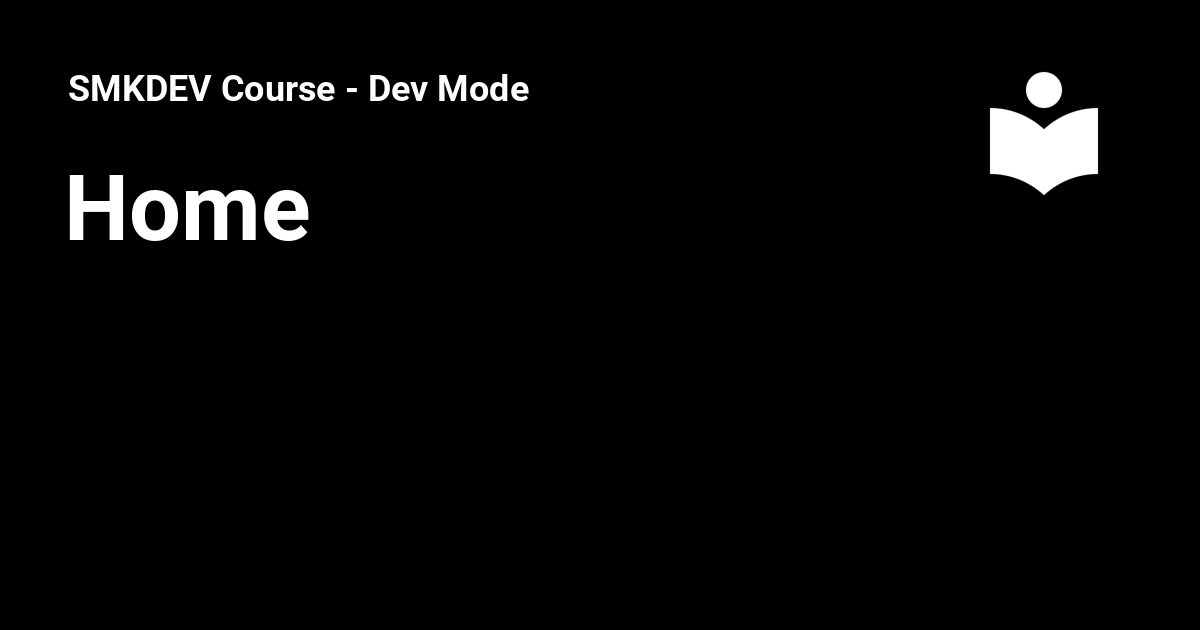
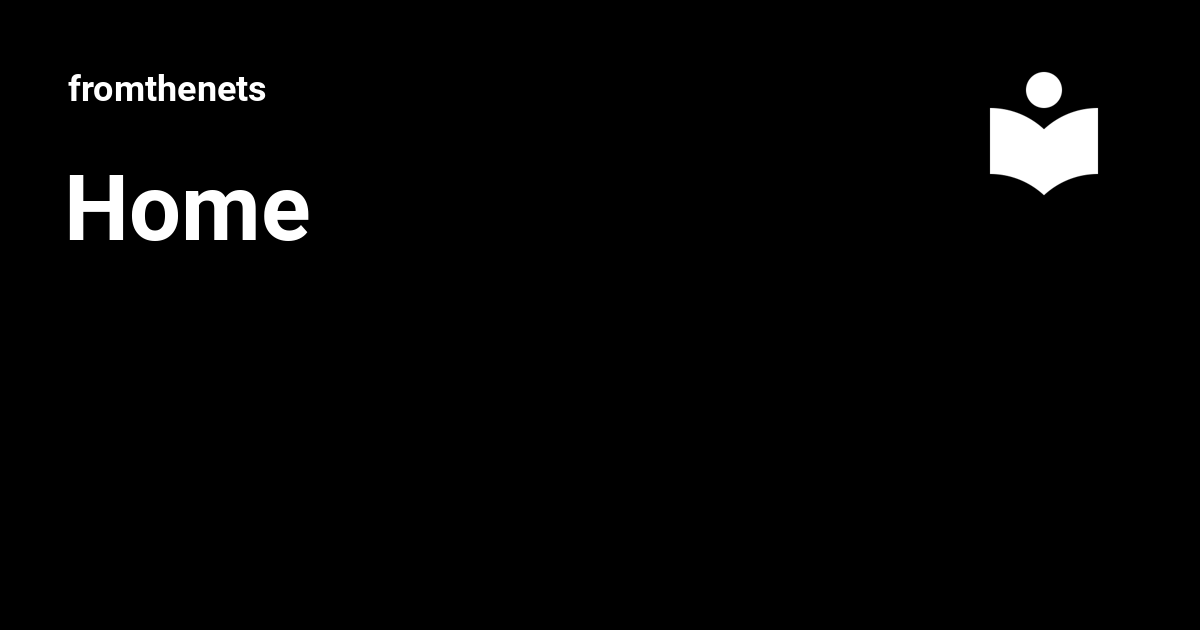
deploy: 1eaac1ed55e2a0e807264677e943bde41f2f64f3

Changed region(s): [[0.0617, 0.1206, 0.2775, 0.181], [0.3083, 0.1206, 0.4625, 0.181]]

diff --git a/snpe/index.html b/snpe/index.html
@@ -20,7 +20,7 @@
     
     
       
-        <title>SNPE - SMKDEV Course - Dev Mode</title>
+        <title>SNPE - fromthenets</title>
       
     
     
@@ -55,7 +55,7 @@
       
         <meta  property="og:type"  content="website" >
       
-        <meta  property="og:title"  content="SNPE - SMKDEV Course - Dev Mode" >
+        <meta  property="og:title"  content="SNPE - fromthenets" >
       
         <meta  property="og:description"  content="None" >
       
@@ -71,7 +71,7 @@
       
         <meta  name="twitter:card"  content="summary_large_image" >
       
-        <meta  name="twitter:title"  content="SNPE - SMKDEV Course - Dev Mode" >
+        <meta  name="twitter:title"  content="SNPE - fromthenets" >
       
         <meta  name="twitter:description"  content="None" >
       
@@ -110,9 +110,11 @@
     
       
 
-<header class="md-header" data-md-component="header">
+  
+
+<header class="md-header md-header--shadow" data-md-component="header">
   <nav class="md-header__inner md-grid" aria-label="Header">
-    <a href=".." title="SMKDEV Course - Dev Mode" class="md-header__button md-logo" aria-label="SMKDEV Course - Dev Mode" data-md-component="logo">
+    <a href=".." title="fromthenets" class="md-header__button md-logo" aria-label="fromthenets" data-md-component="logo">
       
   
   <svg xmlns="http://www.w3.org/2000/svg" viewBox="0 0 24 24"><path d="M12 8a3 3 0 0 0 3-3 3 3 0 0 0-3-3 3 3 0 0 0-3 3 3 3 0 0 0 3 3m0 3.54C9.64 9.35 6.5 8 3 8v11c3.5 0 6.64 1.35 9 3.54 2.36-2.19 5.5-3.54 9-3.54V8c-3.5 0-6.64 1.35-9 3.54Z"/></svg>
@@ -126,7 +128,7 @@
       <div class="md-header__ellipsis">
         <div class="md-header__topic">
           <span class="md-ellipsis">
-            SMKDEV Course - Dev Mode
+            fromthenets
           </span>
         </div>
         <div class="md-header__topic" data-md-component="header-topic">
@@ -229,51 +231,6 @@
       
         
           
-            
-<nav class="md-tabs" aria-label="Tabs" data-md-component="tabs">
-  <div class="md-grid">
-    <ul class="md-tabs__list">
-      
-        
-  
-  
-  
-    <li class="md-tabs__item">
-      <a href=".." class="md-tabs__link">
-        
-  
-    
-  
-  Home
-
-      </a>
-    </li>
-  
-
-      
-        
-  
-  
-    
-  
-  
-    <li class="md-tabs__item md-tabs__item--active">
-      <a href="./" class="md-tabs__link">
-        
-  
-    
-  
-  SNPE
-
-      </a>
-    </li>
-  
-
-      
-    </ul>
-  </div>
-</nav>
-          
         
       
       <main class="md-main" data-md-component="main">
@@ -287,18 +244,16 @@
                     
 
 
-  
 
-
-<nav class="md-nav md-nav--primary md-nav--lifted" aria-label="Navigation" data-md-level="0">
+<nav class="md-nav md-nav--primary" aria-label="Navigation" data-md-level="0">
   <label class="md-nav__title" for="__drawer">
-    <a href=".." title="SMKDEV Course - Dev Mode" class="md-nav__button md-logo" aria-label="SMKDEV Course - Dev Mode" data-md-component="logo">
+    <a href=".." title="fromthenets" class="md-nav__button md-logo" aria-label="fromthenets" data-md-component="logo">
       
   
   <svg xmlns="http://www.w3.org/2000/svg" viewBox="0 0 24 24"><path d="M12 8a3 3 0 0 0 3-3 3 3 0 0 0-3-3 3 3 0 0 0-3 3 3 3 0 0 0 3 3m0 3.54C9.64 9.35 6.5 8 3 8v11c3.5 0 6.64 1.35 9 3.54 2.36-2.19 5.5-3.54 9-3.54V8c-3.5 0-6.64 1.35-9 3.54Z"/></svg>
 
     </a>
-    SMKDEV Course - Dev Mode
+    fromthenets
   </label>
   
   <ul class="md-nav__list" data-md-scrollfix>
@@ -555,7 +510,7 @@
     </div>
     
     
-    <script id="__config" type="application/json">{"base": "..", "features": ["announce.dismiss", "content.action.edit", "content.action.view", "content.code.annotate", "content.code.copy", "content.tooltips", "navigation.top", "navigation.tabs", "navigation.footer", "navigation.indexes", "navigation.path", "search.highlight", "search.suggest", "toc.follow"], "search": "../assets/javascripts/workers/search.b8dbb3d2.min.js", "translations": {"clipboard.copied": "Copied to clipboard", "clipboard.copy": "Copy to clipboard", "search.result.more.one": "1 more on this page", "search.result.more.other": "# more on this page", "search.result.none": "No matching documents", "search.result.one": "1 matching document", "search.result.other": "# matching documents", "search.result.placeholder": "Type to start searching", "search.result.term.missing": "Missing", "select.version": "Select version"}}</script>
+    <script id="__config" type="application/json">{"base": "..", "features": ["announce.dismiss", "content.action.edit", "content.action.view", "content.code.annotate", "content.code.copy", "content.tooltips", "navigation.top", "navigation.footer", "navigation.indexes", "navigation.path", "search.highlight", "search.suggest", "toc.follow"], "search": "../assets/javascripts/workers/search.b8dbb3d2.min.js", "translations": {"clipboard.copied": "Copied to clipboard", "clipboard.copy": "Copy to clipboard", "search.result.more.one": "1 more on this page", "search.result.more.other": "# more on this page", "search.result.none": "No matching documents", "search.result.one": "1 matching document", "search.result.other": "# matching documents", "search.result.placeholder": "Type to start searching", "search.result.term.missing": "Missing", "select.version": "Select version"}}</script>
     
     
       <script src="../assets/javascripts/bundle.fe8b6f2b.min.js"></script>

diff --git a/404.html b/404.html
@@ -16,7 +16,7 @@
     
     
       
-        <title>SMKDEV Course - Dev Mode</title>
+        <title>fromthenets</title>
       
     
     
@@ -75,9 +75,11 @@
     
       
 
-<header class="md-header" data-md-component="header">
+  
+
+<header class="md-header md-header--shadow" data-md-component="header">
   <nav class="md-header__inner md-grid" aria-label="Header">
-    <a href="/fromthenets/." title="SMKDEV Course - Dev Mode" class="md-header__button md-logo" aria-label="SMKDEV Course - Dev Mode" data-md-component="logo">
+    <a href="/fromthenets/." title="fromthenets" class="md-header__button md-logo" aria-label="fromthenets" data-md-component="logo">
       
   
   <svg xmlns="http://www.w3.org/2000/svg" viewBox="0 0 24 24"><path d="M12 8a3 3 0 0 0 3-3 3 3 0 0 0-3-3 3 3 0 0 0-3 3 3 3 0 0 0 3 3m0 3.54C9.64 9.35 6.5 8 3 8v11c3.5 0 6.64 1.35 9 3.54 2.36-2.19 5.5-3.54 9-3.54V8c-3.5 0-6.64 1.35-9 3.54Z"/></svg>
@@ -91,7 +93,7 @@
       <div class="md-header__ellipsis">
         <div class="md-header__topic">
           <span class="md-ellipsis">
-            SMKDEV Course - Dev Mode
+            fromthenets
           </span>
         </div>
         <div class="md-header__topic" data-md-component="header-topic">
@@ -194,49 +196,6 @@
       
         
           
-            
-<nav class="md-tabs" aria-label="Tabs" data-md-component="tabs">
-  <div class="md-grid">
-    <ul class="md-tabs__list">
-      
-        
-  
-  
-  
-    <li class="md-tabs__item">
-      <a href="/fromthenets/." class="md-tabs__link">
-        
-  
-    
-  
-  Home
-
-      </a>
-    </li>
-  
-
-      
-        
-  
-  
-  
-    <li class="md-tabs__item">
-      <a href="/fromthenets/snpe/" class="md-tabs__link">
-        
-  
-    
-  
-  SNPE
-
-      </a>
-    </li>
-  
-
-      
-    </ul>
-  </div>
-</nav>
-          
         
       
       <main class="md-main" data-md-component="main">
@@ -250,18 +209,16 @@
                     
 
 
-  
 
-
-<nav class="md-nav md-nav--primary md-nav--lifted" aria-label="Navigation" data-md-level="0">
+<nav class="md-nav md-nav--primary" aria-label="Navigation" data-md-level="0">
   <label class="md-nav__title" for="__drawer">
-    <a href="/fromthenets/." title="SMKDEV Course - Dev Mode" class="md-nav__button md-logo" aria-label="SMKDEV Course - Dev Mode" data-md-component="logo">
+    <a href="/fromthenets/." title="fromthenets" class="md-nav__button md-logo" aria-label="fromthenets" data-md-component="logo">
       
   
   <svg xmlns="http://www.w3.org/2000/svg" viewBox="0 0 24 24"><path d="M12 8a3 3 0 0 0 3-3 3 3 0 0 0-3-3 3 3 0 0 0-3 3 3 3 0 0 0 3 3m0 3.54C9.64 9.35 6.5 8 3 8v11c3.5 0 6.64 1.35 9 3.54 2.36-2.19 5.5-3.54 9-3.54V8c-3.5 0-6.64 1.35-9 3.54Z"/></svg>
 
     </a>
-    SMKDEV Course - Dev Mode
+    fromthenets
   </label>
   
   <ul class="md-nav__list" data-md-scrollfix>
@@ -414,7 +371,7 @@
     </div>
     
     
-    <script id="__config" type="application/json">{"base": "/fromthenets/", "features": ["announce.dismiss", "content.action.edit", "content.action.view", "content.code.annotate", "content.code.copy", "content.tooltips", "navigation.top", "navigation.tabs", "navigation.footer", "navigation.indexes", "navigation.path", "search.highlight", "search.suggest", "toc.follow"], "search": "/fromthenets/assets/javascripts/workers/search.b8dbb3d2.min.js", "translations": {"clipboard.copied": "Copied to clipboard", "clipboard.copy": "Copy to clipboard", "search.result.more.one": "1 more on this page", "search.result.more.other": "# more on this page", "search.result.none": "No matching documents", "search.result.one": "1 matching document", "search.result.other": "# matching documents", "search.result.placeholder": "Type to start searching", "search.result.term.missing": "Missing", "select.version": "Select version"}}</script>
+    <script id="__config" type="application/json">{"base": "/fromthenets/", "features": ["announce.dismiss", "content.action.edit", "content.action.view", "content.code.annotate", "content.code.copy", "content.tooltips", "navigation.top", "navigation.footer", "navigation.indexes", "navigation.path", "search.highlight", "search.suggest", "toc.follow"], "search": "/fromthenets/assets/javascripts/workers/search.b8dbb3d2.min.js", "translations": {"clipboard.copied": "Copied to clipboard", "clipboard.copy": "Copy to clipboard", "search.result.more.one": "1 more on this page", "search.result.more.other": "# more on this page", "search.result.none": "No matching documents", "search.result.one": "1 matching document", "search.result.other": "# matching documents", "search.result.placeholder": "Type to start searching", "search.result.term.missing": "Missing", "select.version": "Select version"}}</script>
     
     
       <script src="/fromthenets/assets/javascripts/bundle.fe8b6f2b.min.js"></script>

diff --git a/index.html b/index.html
@@ -20,7 +20,7 @@
     
     
       
-        <title>SMKDEV Course - Dev Mode</title>
+        <title>fromthenets</title>
       
     
     
@@ -110,9 +110,11 @@
     
       
 
-<header class="md-header" data-md-component="header">
+  
+
+<header class="md-header md-header--shadow" data-md-component="header">
   <nav class="md-header__inner md-grid" aria-label="Header">
-    <a href="." title="SMKDEV Course - Dev Mode" class="md-header__button md-logo" aria-label="SMKDEV Course - Dev Mode" data-md-component="logo">
+    <a href="." title="fromthenets" class="md-header__button md-logo" aria-label="fromthenets" data-md-component="logo">
       
   
   <svg xmlns="http://www.w3.org/2000/svg" viewBox="0 0 24 24"><path d="M12 8a3 3 0 0 0 3-3 3 3 0 0 0-3-3 3 3 0 0 0-3 3 3 3 0 0 0 3 3m0 3.54C9.64 9.35 6.5 8 3 8v11c3.5 0 6.64 1.35 9 3.54 2.36-2.19 5.5-3.54 9-3.54V8c-3.5 0-6.64 1.35-9 3.54Z"/></svg>
@@ -126,7 +128,7 @@
       <div class="md-header__ellipsis">
         <div class="md-header__topic">
           <span class="md-ellipsis">
-            SMKDEV Course - Dev Mode
+            fromthenets
           </span>
         </div>
         <div class="md-header__topic" data-md-component="header-topic">
@@ -229,51 +231,6 @@
       
         
           
-            
-<nav class="md-tabs" aria-label="Tabs" data-md-component="tabs">
-  <div class="md-grid">
-    <ul class="md-tabs__list">
-      
-        
-  
-  
-    
-  
-  
-    <li class="md-tabs__item md-tabs__item--active">
-      <a href="." class="md-tabs__link">
-        
-  
-    
-  
-  Home
-
-      </a>
-    </li>
-  
-
-      
-        
-  
-  
-  
-    <li class="md-tabs__item">
-      <a href="snpe/" class="md-tabs__link">
-        
-  
-    
-  
-  SNPE
-
-      </a>
-    </li>
-  
-
-      
-    </ul>
-  </div>
-</nav>
-          
         
       
       <main class="md-main" data-md-component="main">
@@ -287,18 +244,16 @@
                     
 
 
-  
 
-
-<nav class="md-nav md-nav--primary md-nav--lifted" aria-label="Navigation" data-md-level="0">
+<nav class="md-nav md-nav--primary" aria-label="Navigation" data-md-level="0">
   <label class="md-nav__title" for="__drawer">
-    <a href="." title="SMKDEV Course - Dev Mode" class="md-nav__button md-logo" aria-label="SMKDEV Course - Dev Mode" data-md-component="logo">
+    <a href="." title="fromthenets" class="md-nav__button md-logo" aria-label="fromthenets" data-md-component="logo">
       
   
   <svg xmlns="http://www.w3.org/2000/svg" viewBox="0 0 24 24"><path d="M12 8a3 3 0 0 0 3-3 3 3 0 0 0-3-3 3 3 0 0 0-3 3 3 3 0 0 0 3 3m0 3.54C9.64 9.35 6.5 8 3 8v11c3.5 0 6.64 1.35 9 3.54 2.36-2.19 5.5-3.54 9-3.54V8c-3.5 0-6.64 1.35-9 3.54Z"/></svg>
 
     </a>
-    SMKDEV Course - Dev Mode
+    fromthenets
   </label>
   
   <ul class="md-nav__list" data-md-scrollfix>
@@ -591,7 +546,7 @@ docs/
     </div>
     
     
-    <script id="__config" type="application/json">{"base": ".", "features": ["announce.dismiss", "content.action.edit", "content.action.view", "content.code.annotate", "content.code.copy", "content.tooltips", "navigation.top", "navigation.tabs", "navigation.footer", "navigation.indexes", "navigation.path", "search.highlight", "search.suggest", "toc.follow"], "search": "assets/javascripts/workers/search.b8dbb3d2.min.js", "translations": {"clipboard.copied": "Copied to clipboard", "clipboard.copy": "Copy to clipboard", "search.result.more.one": "1 more on this page", "search.result.more.other": "# more on this page", "search.result.none": "No matching documents", "search.result.one": "1 matching document", "search.result.other": "# matching documents", "search.result.placeholder": "Type to start searching", "search.result.term.missing": "Missing", "select.version": "Select version"}}</script>
+    <script id="__config" type="application/json">{"base": ".", "features": ["announce.dismiss", "content.action.edit", "content.action.view", "content.code.annotate", "content.code.copy", "content.tooltips", "navigation.top", "navigation.footer", "navigation.indexes", "navigation.path", "search.highlight", "search.suggest", "toc.follow"], "search": "assets/javascripts/workers/search.b8dbb3d2.min.js", "translations": {"clipboard.copied": "Copied to clipboard", "clipboard.copy": "Copy to clipboard", "search.result.more.one": "1 more on this page", "search.result.more.other": "# more on this page", "search.result.none": "No matching documents", "search.result.one": "1 matching document", "search.result.other": "# matching documents", "search.result.placeholder": "Type to start searching", "search.result.term.missing": "Missing", "select.version": "Select version"}}</script>
     
     
       <script src="assets/javascripts/bundle.fe8b6f2b.min.js"></script>
